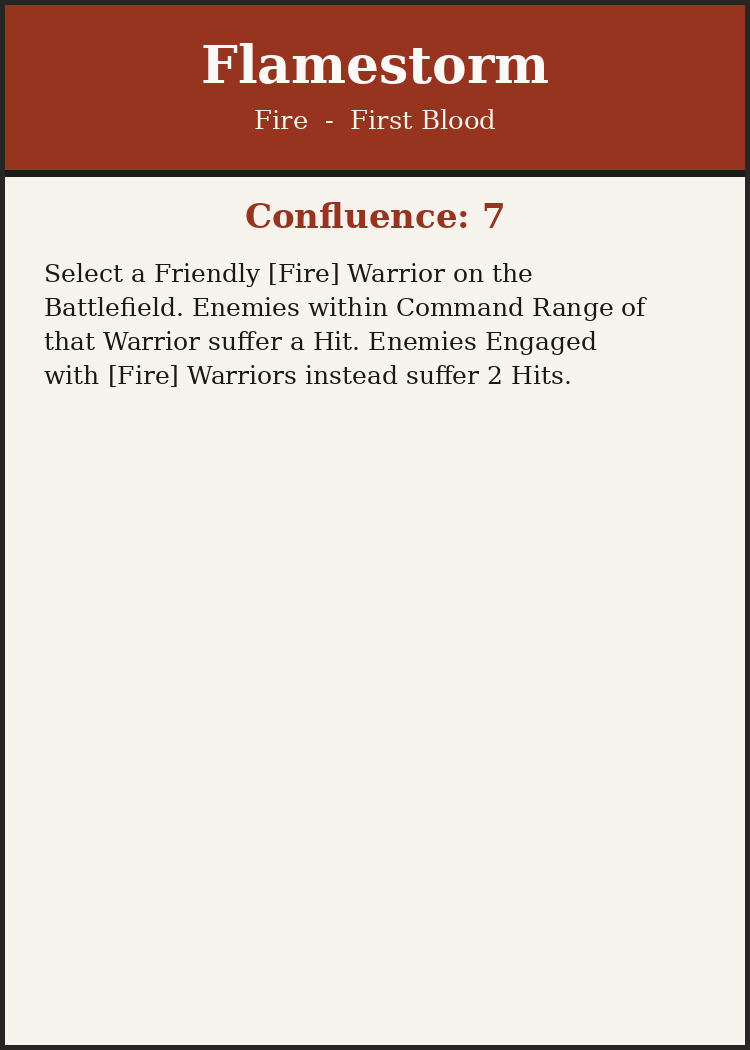
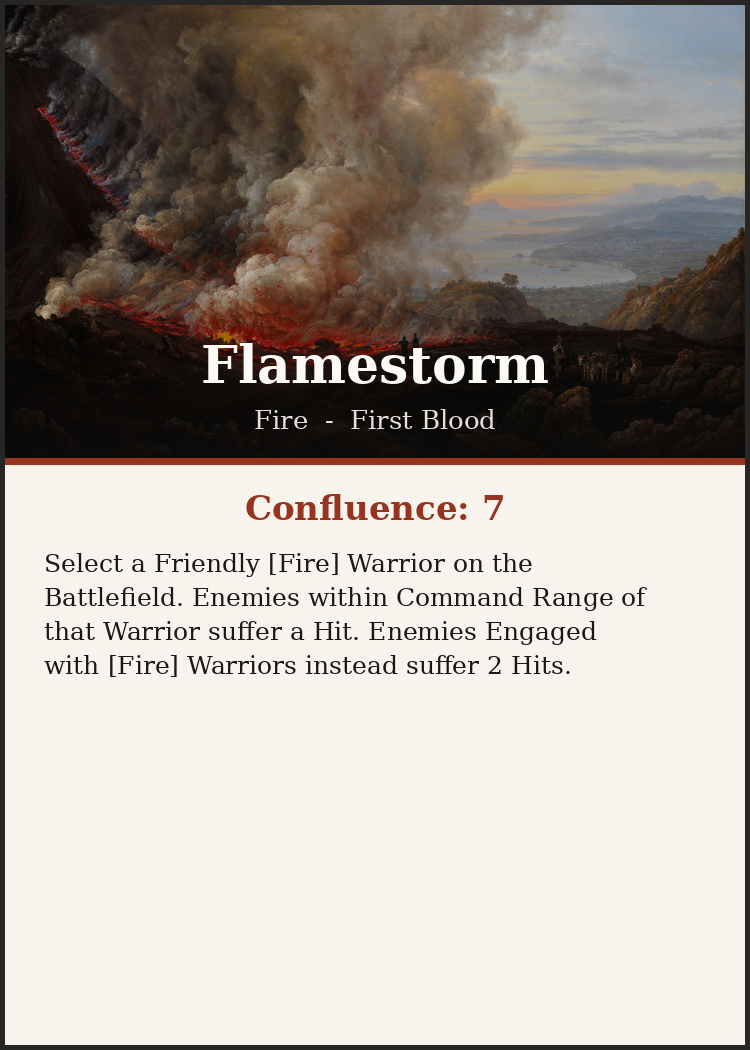
Give the ritual cards elemental art headers
The first pass was plain type on a flat colour band. These carry a public-domain
painting per element instead, with the rules text on a clean panel below so
legibility does not pay for the picture. Dual-element First Blood rituals blend
two paintings.

Sources are Met Open Access (CC0) and are kept in elements/ so the cards can be
regenerated. Attribution added to the README.

diff --git a/README.md b/README.md
@@ -15,6 +15,9 @@ at once. Serving from a CDN removes that single point of failure.
   The originals were print masters (many at 2480x3508, A4 at 300dpi); at TTS's actual
   render and zoom sizes they cost about 6x the video memory for no visible gain.
 - `boards/` — faction reference boards composited for the mod.
+- `rituals/` — Sorcerer Kings ritual cards, and the shared ritual card back.
+- `elements/` — the public-domain paintings used as elemental headers on the
+  ritual cards, kept here so the cards can be regenerated from source.
 
 ## Use
 
@@ -23,6 +26,23 @@ Files are served via jsDelivr, pinned to a tag so URLs never shift:
 ```
 https://cdn.jsdelivr.net/gh/<owner>/conquest-tts-assets@<tag>/cards/<file>
 ```
+
+## Attribution — elemental art
+
+The four paintings behind the ritual card headers are public domain, from the
+Metropolitan Museum of Art's Open Access collection, which releases images of
+public-domain works under CC0:
+
+| Element | Work | Artist |
+|---|---|---|
+| Fire | *An Eruption of Vesuvius* | Johan Christian Dahl |
+| Water | *Northeaster* | Winslow Homer |
+| Earth | *Bandits on a Rocky Coast* | Salvator Rosa |
+| Air | *Clouds* | Thomas Cole |
+
+Dual-element rituals combine two of these. The Met was chosen over other museum
+APIs because its CC0 designation covers the images themselves, not only the
+accompanying metadata.
 
 ## Provenance
 
